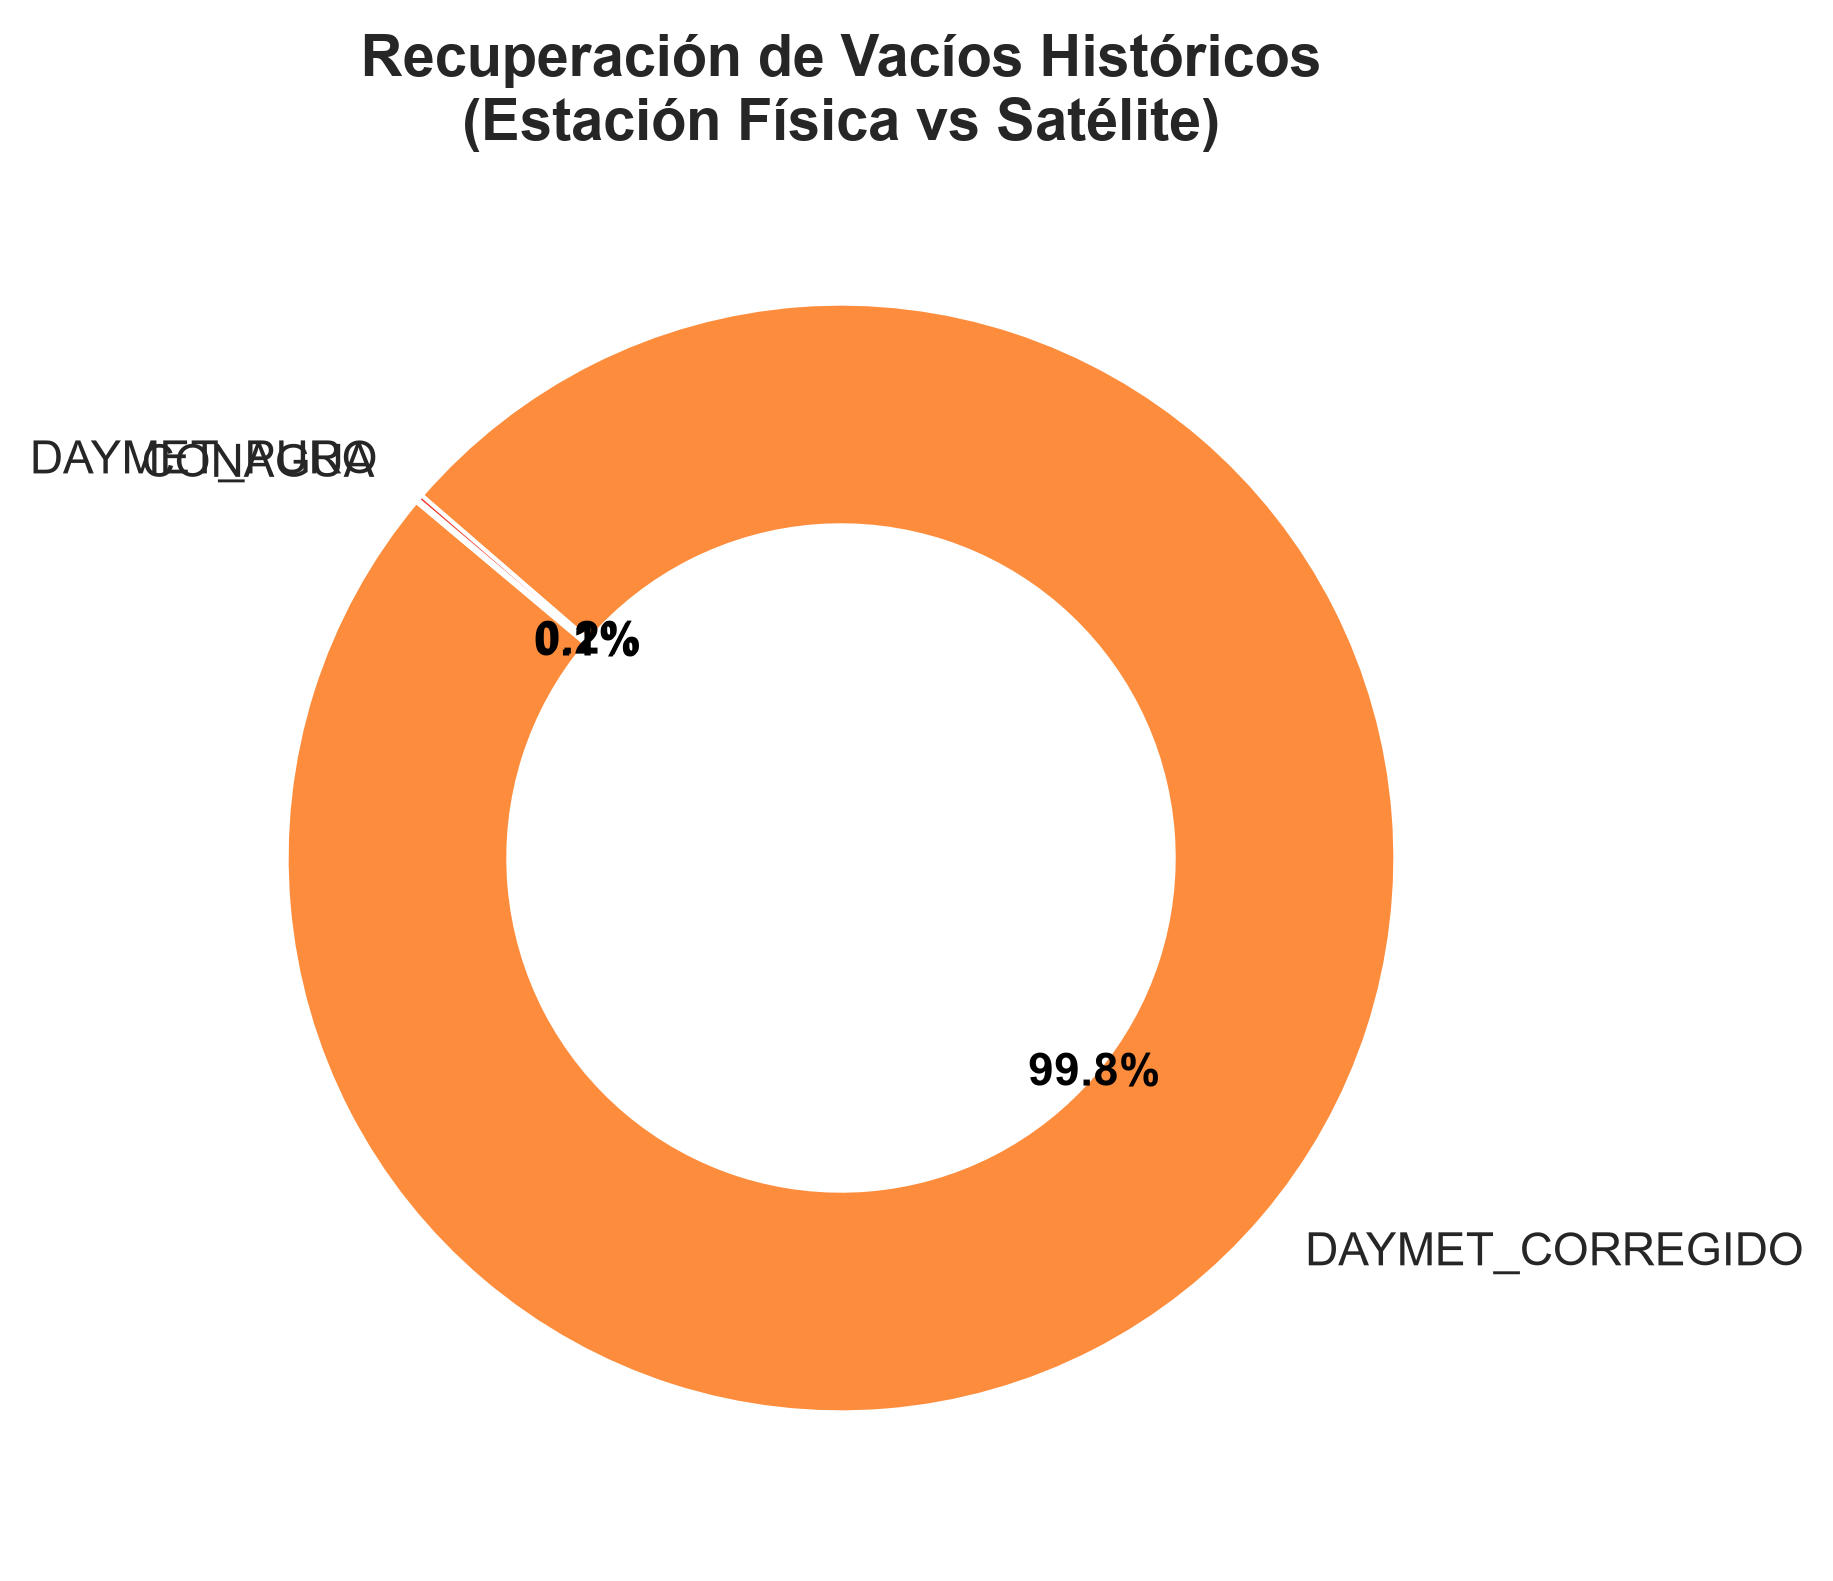
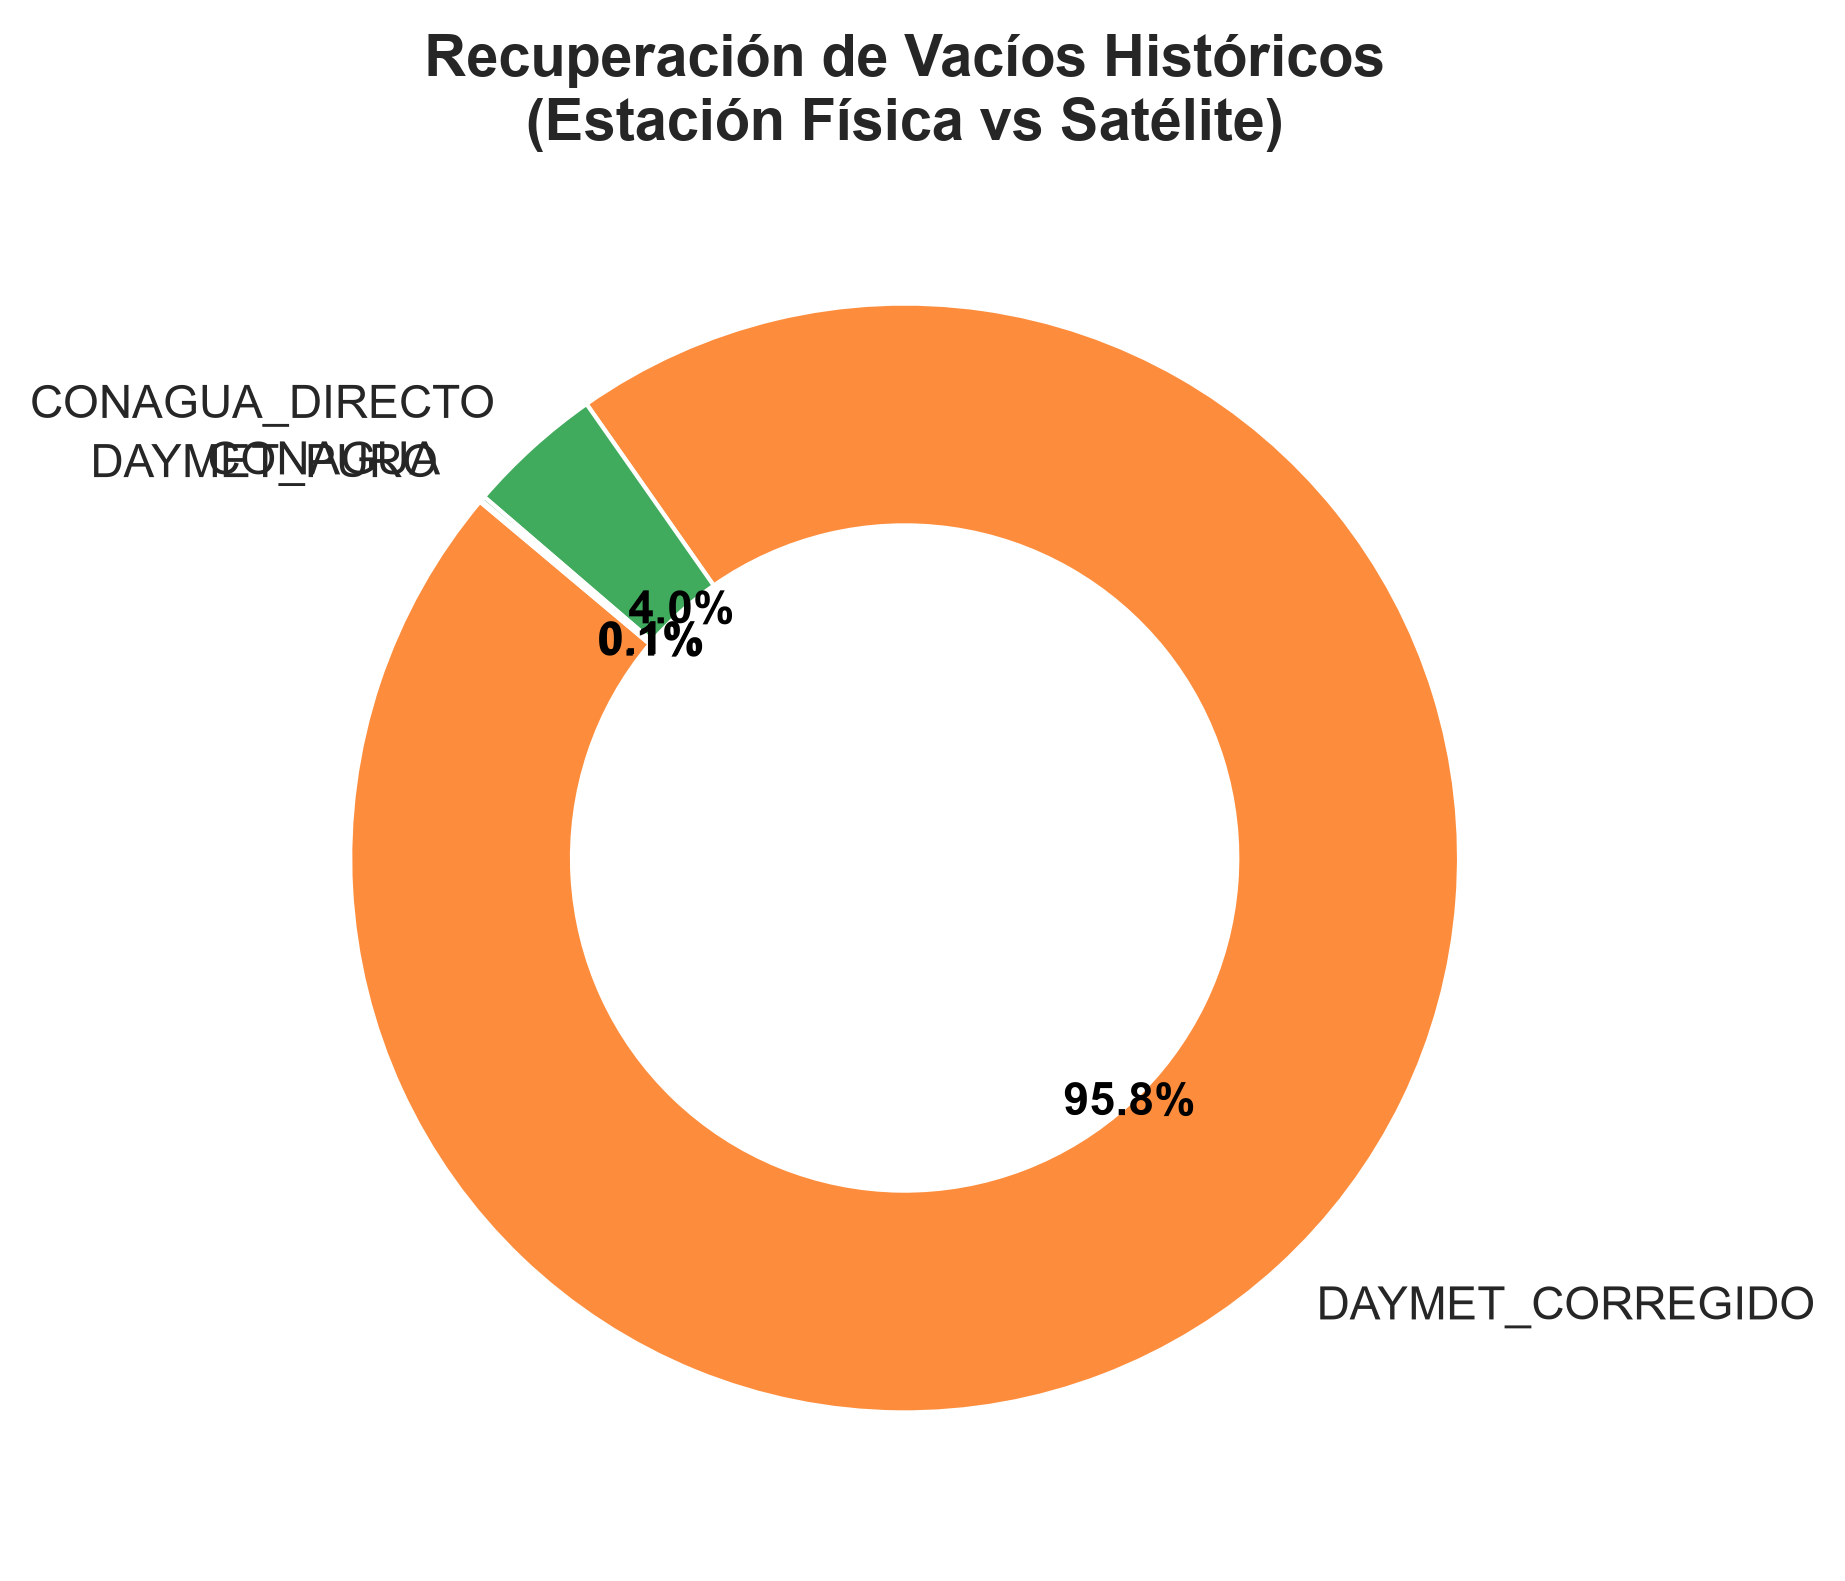
fix: alinear 12 variables del SOM para evitar matriz vacia y usar combine_first para graficas resilientes

diff --git a/backend/main.py b/backend/main.py
@@ -25,7 +25,7 @@ cache = {}
 
 @app.on_event("startup")
 def inicializar_motor():
-    print("🚀 Levantando Backend de Monitoreo Forestal (Resolución de 7 Días)...")
+    print("🚀 Levantando Backend de Monitoreo Forestal (Resolución Diaria Continua)...")
     
     if RUTA_MALLA.exists() and RUTA_CSV_RIESGO.exists():
         gdf_malla = gpd.read_file(RUTA_MALLA)
@@ -66,8 +66,7 @@ def inicializar_motor():
 def sanear_dataframe(df):
     df = df.replace([np.inf, -np.inf], np.nan)
     for col in df.columns:
-        if col == 'geometry': 
-            continue 
+        if col == 'geometry': continue 
         if df[col].dtype == 'object':
             df[col] = df[col].fillna('ESTABLE')
         else:
@@ -92,10 +91,8 @@ def obtener_capa_regional(fecha: str = None):
         
     resultado = gdf.merge(df_filtrado, on='ID_POLIGONO', how='left')
     
-    if 'PROBABILIDAD_COLAPSO' not in resultado.columns:
-        resultado['PROBABILIDAD_COLAPSO'] = 0
-    if 'NIVEL_RIESGO' not in resultado.columns:
-        resultado['NIVEL_RIESGO'] = 'ESTABLE'
+    if 'PROBABILIDAD_COLAPSO' not in resultado.columns: resultado['PROBABILIDAD_COLAPSO'] = 0
+    if 'NIVEL_RIESGO' not in resultado.columns: resultado['NIVEL_RIESGO'] = 'ESTABLE'
         
     resultado = sanear_dataframe(resultado)
     resultado['PROBABILIDAD_COLAPSO'] = resultado['PROBABILIDAD_COLAPSO'].round(1)
@@ -116,15 +113,13 @@ def obtener_capa_control(fecha: str = None):
         
     resultado = gdf.merge(df_audit, on='ID_POLIGONO', how='left')
     
-    if 'ENSAMBLE_PRED' not in resultado.columns:
-        resultado['ENSAMBLE_PRED'] = 0
+    if 'ENSAMBLE_PRED' not in resultado.columns: resultado['ENSAMBLE_PRED'] = 0
         
     resultado = sanear_dataframe(resultado)
     return json.loads(resultado.to_json())
 
 @app.get("/api/serie_tiempo/{id_poligono}")
 def obtener_serie_tiempo(id_poligono: str, fecha: str = None):
-    """Devuelve exactamente los últimos 7 días desde la fecha seleccionada para evitar líneas planas."""
     if 'historial_control' not in cache or 'datos_regionales' not in cache: return []
     
     df_hist = cache['historial_control']
@@ -135,9 +130,12 @@ def obtener_serie_tiempo(id_poligono: str, fecha: str = None):
     
     if hist_pol.empty and pred_pol.empty: return []
 
+    # Fusión robusta de los historiales
     if not hist_pol.empty and not pred_pol.empty:
-        df_merged = pd.merge(hist_pol, pred_pol, on=['ID_POLIGONO', 'FECHA_CRUCE'], how='outer', suffixes=('', '_drop'))
-        df_merged = df_merged[[c for c in df_merged.columns if not c.endswith('_drop')]]
+        hist_pol = hist_pol.set_index('FECHA_CRUCE')
+        pred_pol = pred_pol.set_index('FECHA_CRUCE')
+        # Combine first preserva las 12 variables sin crear duplicados NaN
+        df_merged = pred_pol.combine_first(hist_pol).reset_index()
     elif not hist_pol.empty:
         df_merged = hist_pol.copy()
         df_merged['PROBABILIDAD_COLAPSO'] = 0
@@ -146,18 +144,14 @@ def obtener_serie_tiempo(id_poligono: str, fecha: str = None):
     
     df_merged = df_merged.sort_values('FECHA_CRUCE')
     
-    # -------------------------------------------------------------
-    # RECORTAR A UNA SEMANA Y PROPAGAR LAS 12 VARIABLES
-    # -------------------------------------------------------------
     if not df_merged.empty:
         df_merged['FECHA_CRUCE'] = pd.to_datetime(df_merged['FECHA_CRUCE'], errors='coerce')
         df_merged = df_merged.dropna(subset=['FECHA_CRUCE']).set_index('FECHA_CRUCE').sort_index()
         
-        # Propagamos datos hacia atrás y adelante para que las 12 variables existan en todo momento
         df_merged = df_merged.ffill().bfill().fillna(0)
         
         fecha_fin = pd.to_datetime(fecha) if fecha else df_merged.index.max()
-        fecha_inicio = fecha_fin - pd.Timedelta(days=7) # Ventana estricta de 1 semana
+        fecha_inicio = fecha_fin - pd.Timedelta(days=7)
         
         rango_semanal = pd.date_range(start=fecha_inicio, end=fecha_fin, freq='D')
         

diff --git a/Codigo/06_Inference/06a_ensamble.py b/Codigo/06_Inference/06a_ensamble.py
@@ -46,7 +46,7 @@ def hibridar_modelos():
     posibles_csv = [f for f in archivos_csv if "meta" in f.lower() or "tensor" in f.lower() or "dataset" in f.lower()]
     ruta_metadatos = max(posibles_csv, key=os.path.getmtime) if posibles_csv else (max(archivos_csv, key=os.path.getmtime) if archivos_csv else None)
 
-    print(f"   ► Autodescubrimiento matemático exitoso:")
+    print(f"   ► Autodescubrimiento matemático exitoso.")
     
     try:
         X_tensor = np.load(ruta_tensor)
@@ -77,26 +77,23 @@ def hibridar_modelos():
         df_resultados['NIVEL_RIESGO'] = np.where(df_resultados['PROBABILIDAD_COLAPSO'] > 80, 'CRITICO', 
                                         np.where(df_resultados['PROBABILIDAD_COLAPSO'] > 50, 'ALERTA', 'ESTABLE'))
         
-        # --- EXTRACCIÓN EXPLÍCITA DE LAS 12 VARIABLES FÍSICAS AL CSV ---
-        # Get the most recent time step [Muestras, Último_Mes, Variables]
+        # Extracción exacta de las 12 dimensiones físicas del tensor
         ultima_lectura = X_tensor_inferencia[:min_len, -1, :]
         
-        # Mapping standard forest metadata labels
+        # Nombres técnicos alineados con los mapas SOM y el historial Parquet
         etiquetas = [
-            'NDVI_Vegetacion', 'BSI_Suelo_Desnudo', 'GCI_Clorofila', 
-            'Radar_VV_Biomasa', 'Radar_VH_Estructura', 'Temp_Maxima', 
-            'Temp_Minima', 'Precipitacion', 'Elevacion_Topografica', 
-            'Pendiente_Terreno', 'Energia_Wavelet_Alta', 'Energia_Wavelet_Baja'
+            'NDVI', 'BSI', 'GCI', 'RADAR_VH', 'RADAR_VV', 
+            'TMAX_MEDIAN', 'PRECIP_SUM_MES', 'PRECIP_ACUM_3M', 
+            'ESTRES_HIDRICO', 'ELEVACION', 'NDVI_WAVELET_DETALLE', 'PRECIP_WAVELET_DETALLE'
         ]
         
-        # Inject directly into dataframe
         for i in range(ultima_lectura.shape[1]):
-            nombre_col = etiquetas[i] if i < len(etiquetas) else f'Variable_Tensor_{i+1}'
+            nombre_col = etiquetas[i] if i < len(etiquetas) else f'VAR_{i+1}'
             df_resultados[nombre_col] = ultima_lectura[:, i]
         
         ruta_csv_salida = os.path.join(dir_salida, "01_Reporte_Riesgo_Regional.csv")
         df_resultados.to_csv(ruta_csv_salida, index=False)
-        print(f"✅ Ensamble exportado exitosamente con explicabilidad 12-Var en {ruta_csv_salida}\n")
+        print(f"✅ Ensamble exportado exitosamente con 12 variables explicativas.\n")
 
 if __name__ == "__main__":
     hibridar_modelos()
